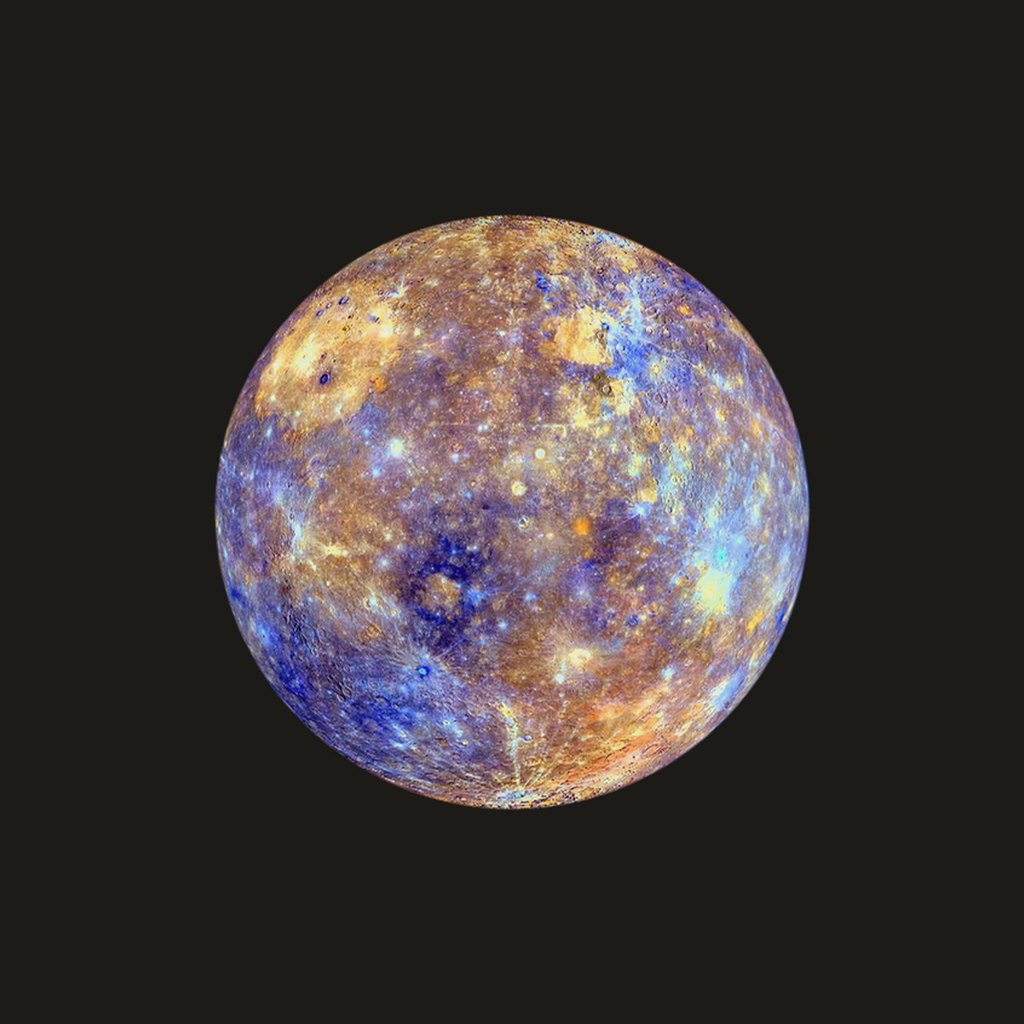
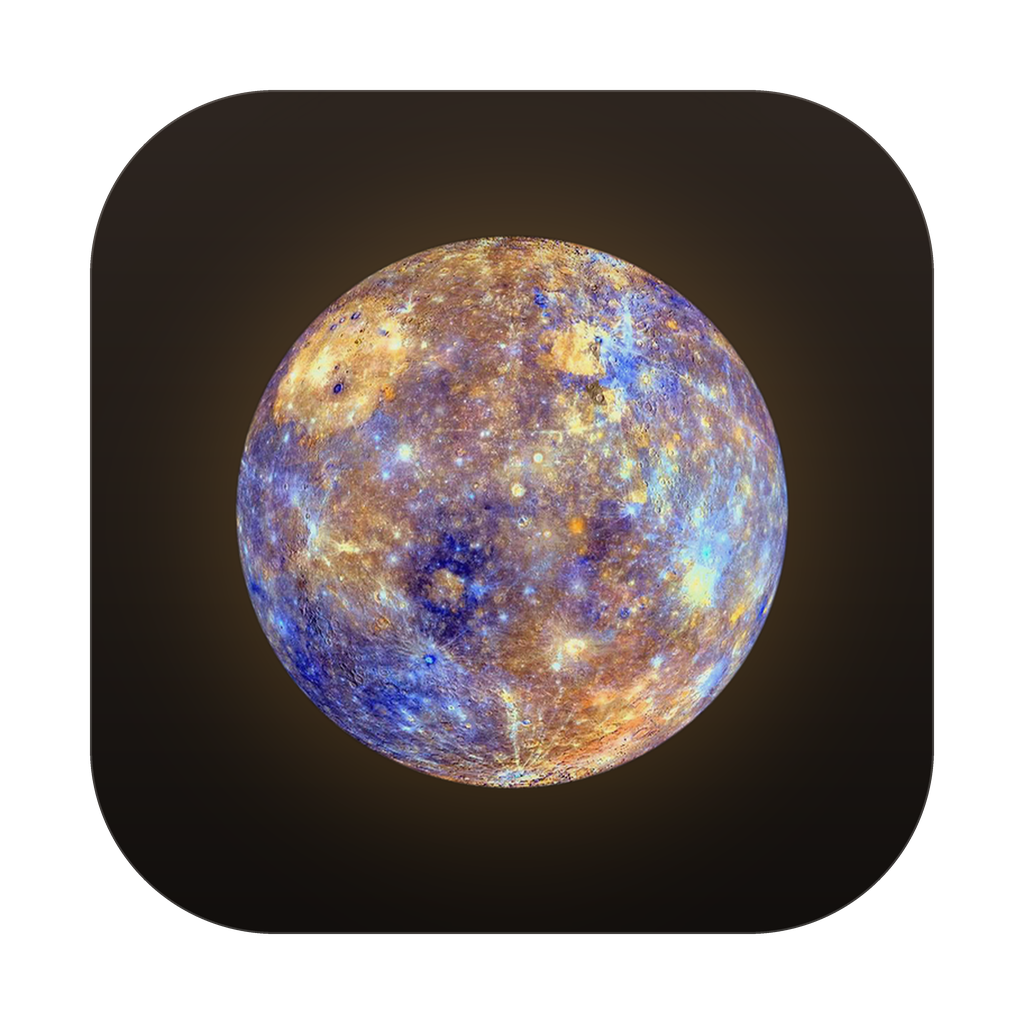
Good update

diff --git a/src/renderer/styles.css b/src/renderer/styles.css
@@ -1047,6 +1047,106 @@ input:focus, textarea:focus { border-color: var(--accent); box-shadow: 0 0 0 3px
 .reader-header { animation: fadeInUp var(--dur-slow) var(--ease); }
 .reader.reader-enter .reader-header { animation: fadeInUp var(--dur-slow) var(--ease); }
 
+/* ============ Boot preloader ============
+   Full-window splash shown while the app boots (accounts load + first folder
+   render). The Mercury planet floats over a pulsing warm halo, the wordmark
+   shimmers, and a thin indeterminate bar sweeps below. Opaque from the first
+   frame (no fade-in) so it covers the app instantly; js/preloader.js adds
+   `.leaving` (fade + gentle zoom) then removes the node. */
+.preloader {
+  position: fixed;
+  inset: 0;
+  z-index: 2000;
+  display: flex;
+  align-items: center;
+  justify-content: center;
+  background: radial-gradient(125% 125% at 50% 38%, #2c2129 0%, var(--bg) 62%);
+  -webkit-app-region: drag;               /* window stays draggable while loading */
+  transition: opacity 0.55s var(--ease);  /* fade OUT only — opaque from frame 0 */
+}
+.preloader.leaving { opacity: 0; pointer-events: none; }
+
+.preloader-stage {
+  display: flex;
+  flex-direction: column;
+  align-items: center;
+  gap: 30px;
+  transition: transform 0.55s var(--ease);
+}
+.preloader.leaving .preloader-stage { transform: scale(1.07); }
+
+.planet-wrap {
+  position: relative;
+  width: 120px;
+  height: 120px;
+  display: grid;
+  place-items: center;
+}
+
+.planet-glow {
+  position: absolute;
+  width: 120px;
+  height: 120px;
+  border-radius: 50%;
+  background: radial-gradient(circle, rgba(233, 165, 68, 0.55) 0%, rgba(233, 165, 68, 0) 68%);
+  filter: blur(10px);
+  animation: glowPulse 2.8s ease-in-out infinite;
+}
+.preloader-planet {
+  position: relative;
+  width: 94px;
+  height: 94px;
+  border-radius: 50%;
+  object-fit: cover;
+  filter: drop-shadow(0 6px 18px rgba(0, 0, 0, 0.55));
+  animation: planetFloat 4s ease-in-out infinite;
+}
+
+.preloader-word {
+  font-family: var(--font-pixel);
+  font-size: 27px;
+  letter-spacing: 0.05em;
+  background: linear-gradient(100deg,
+    var(--text-dim) 18%, var(--accent-strong) 50%, var(--text-dim) 82%);
+  background-size: 220% 100%;
+  -webkit-background-clip: text;
+  background-clip: text;
+  color: transparent;
+  animation: wordShimmer 2.6s linear infinite;
+}
+
+.preloader-track {
+  width: 156px;
+  height: 2px;
+  border-radius: 2px;
+  background: rgba(255, 255, 255, 0.08);
+  overflow: hidden;
+}
+.preloader-fill {
+  height: 100%;
+  width: 42%;
+  border-radius: 2px;
+  background: linear-gradient(90deg, transparent, var(--accent-strong), transparent);
+  animation: trackSweep 1.5s var(--ease) infinite;
+}
+
+@keyframes glowPulse {
+  0%, 100% { opacity: 0.5; transform: scale(0.9); }
+  50%      { opacity: 0.95; transform: scale(1.1); }
+}
+@keyframes planetFloat {
+  0%, 100% { transform: translateY(0); }
+  50%      { transform: translateY(-6px); }
+}
+@keyframes wordShimmer {
+  from { background-position: 220% 0; }
+  to   { background-position: -220% 0; }
+}
+@keyframes trackSweep {
+  from { transform: translateX(-130%); }
+  to   { transform: translateX(330%); }
+}
+
 /* Respect the OS "reduce motion" setting — kill all transitions & animations. */
 @media (prefers-reduced-motion: reduce) {
   *, *::before, *::after {

diff --git a/src/renderer/js/preloader.js b/src/renderer/js/preloader.js
@@ -1,0 +1,22 @@
+// Boot preloader control. The splash (#preloader) is in the initial HTML so it
+// paints instantly; app.js calls hidePreloader() once the first load resolves.
+// A minimum on-screen time keeps the fancy animation from flashing on fast
+// boots, and the node is fully removed after its fade-out.
+
+const MIN_ON_SCREEN_MS = 1100;
+const FADE_MS = 600;
+const startedAt = performance.now();
+
+let hidden = false;
+
+export function hidePreloader() {
+  if (hidden) return;
+  hidden = true;
+  const el = document.getElementById('preloader');
+  if (!el) return;
+  const wait = Math.max(0, MIN_ON_SCREEN_MS - (performance.now() - startedAt));
+  setTimeout(() => {
+    el.classList.add('leaving');
+    setTimeout(() => el.remove(), FADE_MS);
+  }, wait);
+}

diff --git a/src/renderer/index.html b/src/renderer/index.html
@@ -9,6 +9,19 @@
 </head>
 <body>
 
+  <!-- Fancy boot preloader — glowing Mercury planet + shimmering wordmark.
+       Removed by js/preloader.js once the app has finished its first load. -->
+  <div id="preloader" class="preloader">
+    <div class="preloader-stage">
+      <div class="planet-wrap">
+        <span class="planet-glow"></span>
+        <img class="preloader-planet" src="../../assets/planet.png" alt="" />
+      </div>
+      <div class="preloader-word">Mercury</div>
+      <div class="preloader-track"><div class="preloader-fill"></div></div>
+    </div>
+  </div>
+
   <!-- Title bar -->
   <header class="titlebar">
     <div class="traffic-space"></div>

diff --git a/src/renderer/js/app.js b/src/renderer/js/app.js
@@ -15,6 +15,7 @@ import './sync.js';
 import './status.js';
 import './titlebar.js';
 import { applyUpdateResult } from './settings.js';
+import { hidePreloader } from './preloader.js';
 
 $('refresh-btn').addEventListener('click', () => {
   if (!state.accountId) return;
@@ -50,6 +51,8 @@ document.addEventListener('keydown', (e) => {
     if (state.accounts.length) await selectAccount(state.accounts[0].id);
   } catch (err) {
     toast(err.message, 'error');
+  } finally {
+    hidePreloader();
   }
 })();
 

diff --git a/docs/design.md b/docs/design.md
@@ -29,6 +29,15 @@ An Apple "Liquid Glass" look: the window is transparent with **native macOS vibr
 
 ## Change log
 
+### 2026-07-07 — App icon: rounded squircle + gradient tile
+**Changes:** superseded the flat-square Lithium-style tile (previous entry) with a native-macOS-style icon that bakes in its own shape and depth (macOS does **not** auto-round or shade app icons). `assets/icon.png`, 1024px: a ~844px rounded-rect tile (corner radius ~185, ~90px transparent margin so it aligns with Apple's icon grid) filled with a warm vertical gradient `#2e2621`→`#120f0d`, a soft amber radial glow (accent `#e9a544`, blurred) behind the planet for depth, a 2px top-light rim on the tile edge, and the planet centered at ~66% of the tile. Corners are genuinely transparent (alpha 0) so the rounding shows in the dock/Finder and the dev dock icon alike. Throwaway PIL script (not in repo), rendered at 4× supersample then downscaled (LANCZOS) for crisp edges; regenerate from `assets/planet.png` if the logo changes.
+
+### 2026-07-07 — Fancy boot preloader (glowing planet splash)
+**Goal:** a fancy loading page while the app boots.
+**Changes:** added a full-window `#preloader` splash as the first `<body>` child in `index.html` (paints instantly), styled in styles.css (`.preloader*`, inserted **before** the `prefers-reduced-motion` block so that block still neutralizes it). The Mercury planet (`assets/planet.png`) floats gently over a pulsing warm `.planet-glow` halo, the wordmark shimmers (`background-clip:text` moving gradient in `--font-pixel`), and a thin indeterminate bar sweeps below. New `js/preloader.js` exports `hidePreloader()`; `app.js` calls it in the `init()` `finally` (fires on success, no-accounts, or error). A `MIN_ON_SCREEN_MS` (1100ms) floor prevents a flash on fast boots, then `.leaving` fades + zooms and the node is removed. Splash is `-webkit-app-region: drag` so the window stays movable while loading; `z-index: 2000` (above all existing layers, max prior was 200).
+**Result:** app opens on an animated Mercury splash that fades into the mail UI once the first folder loads. Verified clean boot via `MAIL_DEBUG=1` (no renderer errors).
+**Specifics (do NOT regress):** keep the preloader CSS above the reduced-motion query. `hidePreloader()` must stay in a `finally` (not the try body) so the splash always clears even if boot throws. The splash must have **no fade-*in*** animation — it has to be opaque from the first painted frame, or the app shows through for a moment before it "pops in" (only the fade-*out* via `.leaving` is animated). *(2026-07-07: removed the earlier two-ring orbital animation and the entrance fade at the user's request.)*
+
 ### 2026-07-07 — App icon reframed on a flat dark tile (Lithium-style)
 **Changes:** replaced the full-bleed planet-on-transparency `assets/icon.png` with the planet centered on a flat opaque dark tile, matching the sibling Lithium app's icon treatment. Background `#1c1b18` (28,27,24) — Lithium's exact colour; planet disc 600px centered on a 1024px canvas (~212px padding, ~Lithium's glyph footprint); no gradient/glow/rounded corners (macOS masks corners). Regeneration is a throwaway PIL script (not in repo): tight-crop `assets/planet.png` to its alpha bbox, LANCZOS-resize to 600px, `alpha_composite` onto the dark canvas. `assets/planet.png` (the sidebar mark) is unchanged.
 